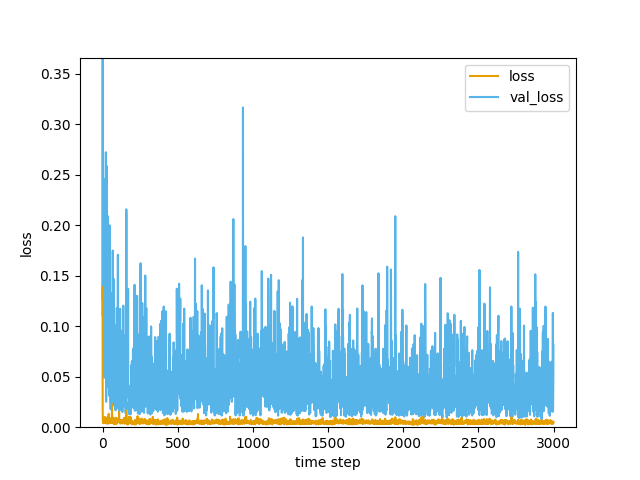
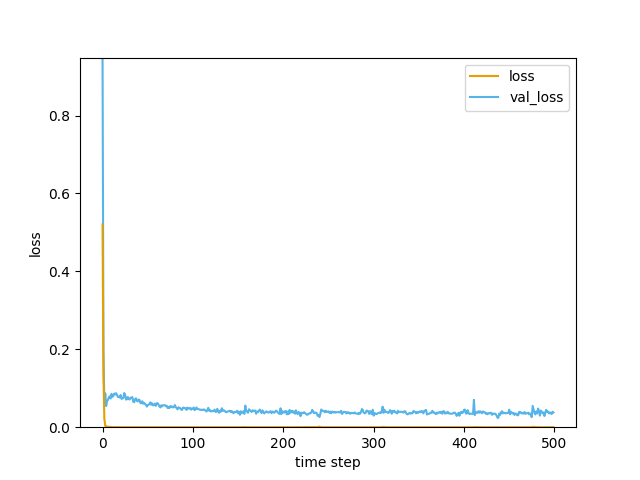
update

diff --git a/deep_regression_train.py b/deep_regression_train.py
@@ -14,8 +14,10 @@ import time
 
 # バッチサイズ設定
 n_bs = 4
+# 中間層ニューロン数設定
+n_units = 50
 # エポック数
-nb_epochs = 3000
+nb_epochs = 500
 # csvファイルパス取得
 csvfile = 'dataset/train.csv'
 
@@ -80,13 +82,9 @@ def dnn_model_maker(n_features, n_outputs):
     # 4層ニューラルネットワークを定義
     model = Sequential()
     # 中間層1（ニューロン=units個）と入力層を定義
-    model.add(Dense(units=500, activation='relu', input_shape=(n_features,)))
-    # Dropout層を定義
-    model.add(Dropout(0.2))
-    # 中間層2（ニューロン=units個）を定義
-    model.add(Dense(units=500, activation='relu'))
-    # Dropout層を定義
-    model.add(Dropout(0.2))
+    model.add(Dense(units=n_units, activation='relu', input_shape=(n_features,)))
+    # 中間層2（ニューロン=n_units個）を定義
+    model.add(Dense(units=n_units, activation='relu'))
     # 出力層を定義（ニューロン数は1個）
     model.add(Dense(units=n_outputs, activation='linear'))
     # 回帰学習モデル作成

diff --git a/deep_regression_plot.py b/deep_regression_plot.py
@@ -46,6 +46,7 @@ def main():
 
     # 入力データ標準化
     X = input_normalization(X, x)
+
     #print("X=")
     #print(X)
     #print("x1=")
@@ -56,6 +57,7 @@ def main():
 
     # 予測結果に対し標準化の逆変換して予測時間（分）を取得
     yp = result[:,0] * y.std() + y.mean()
+    #yp = result[:,0]
     print("result=")
     print(yp)
 
